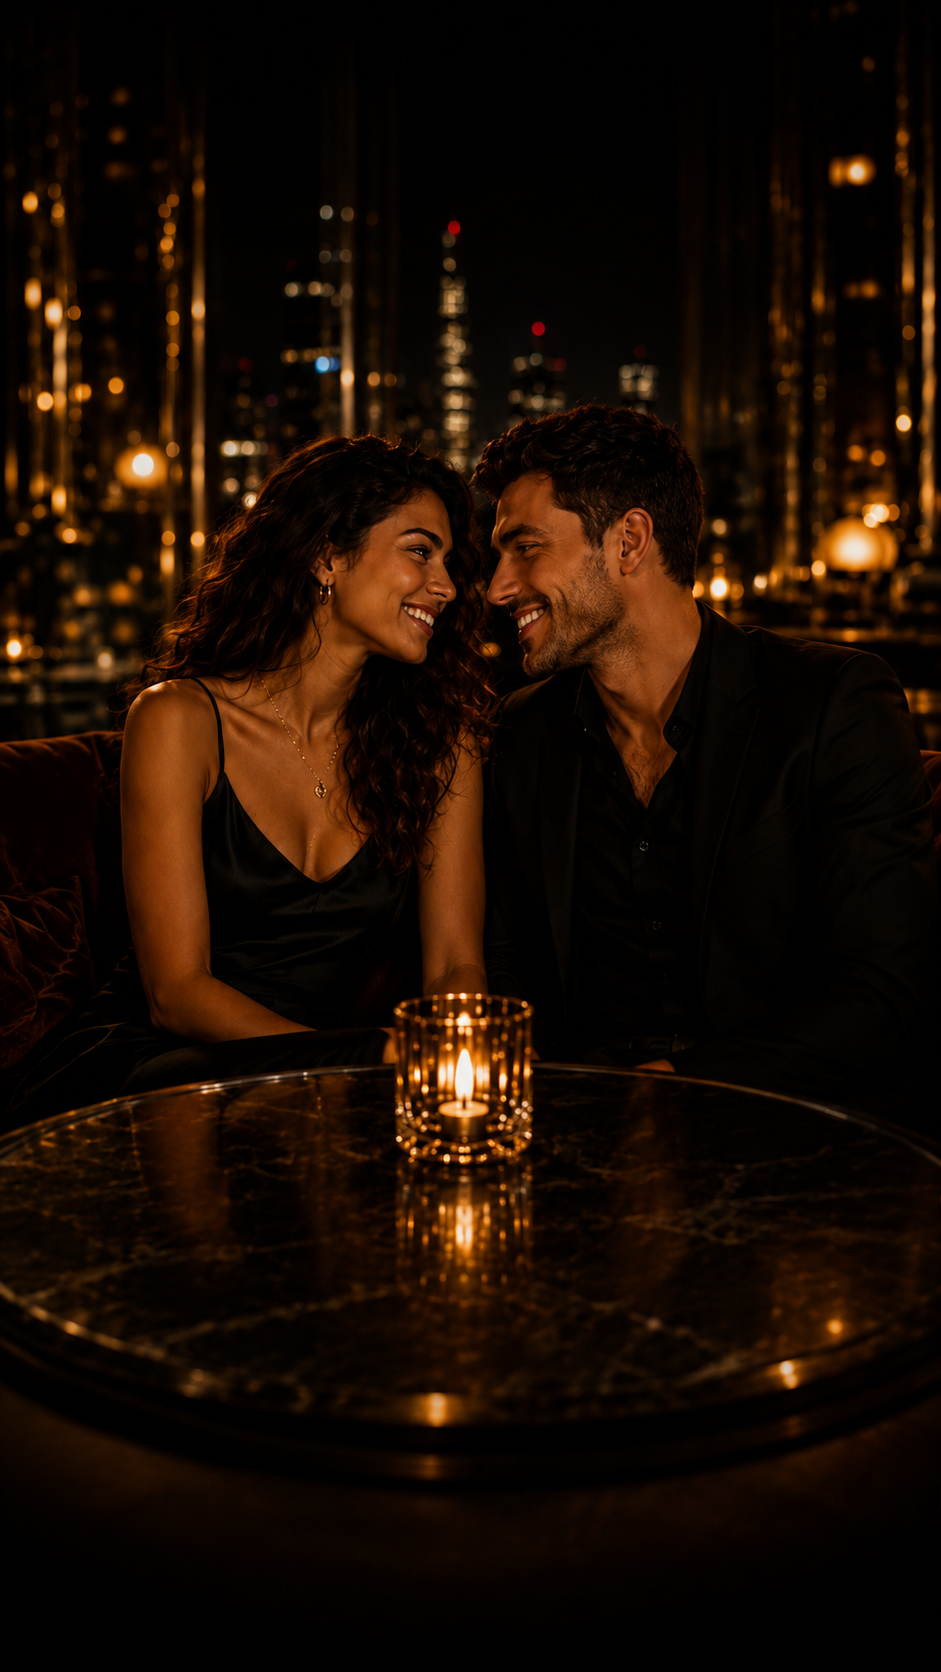
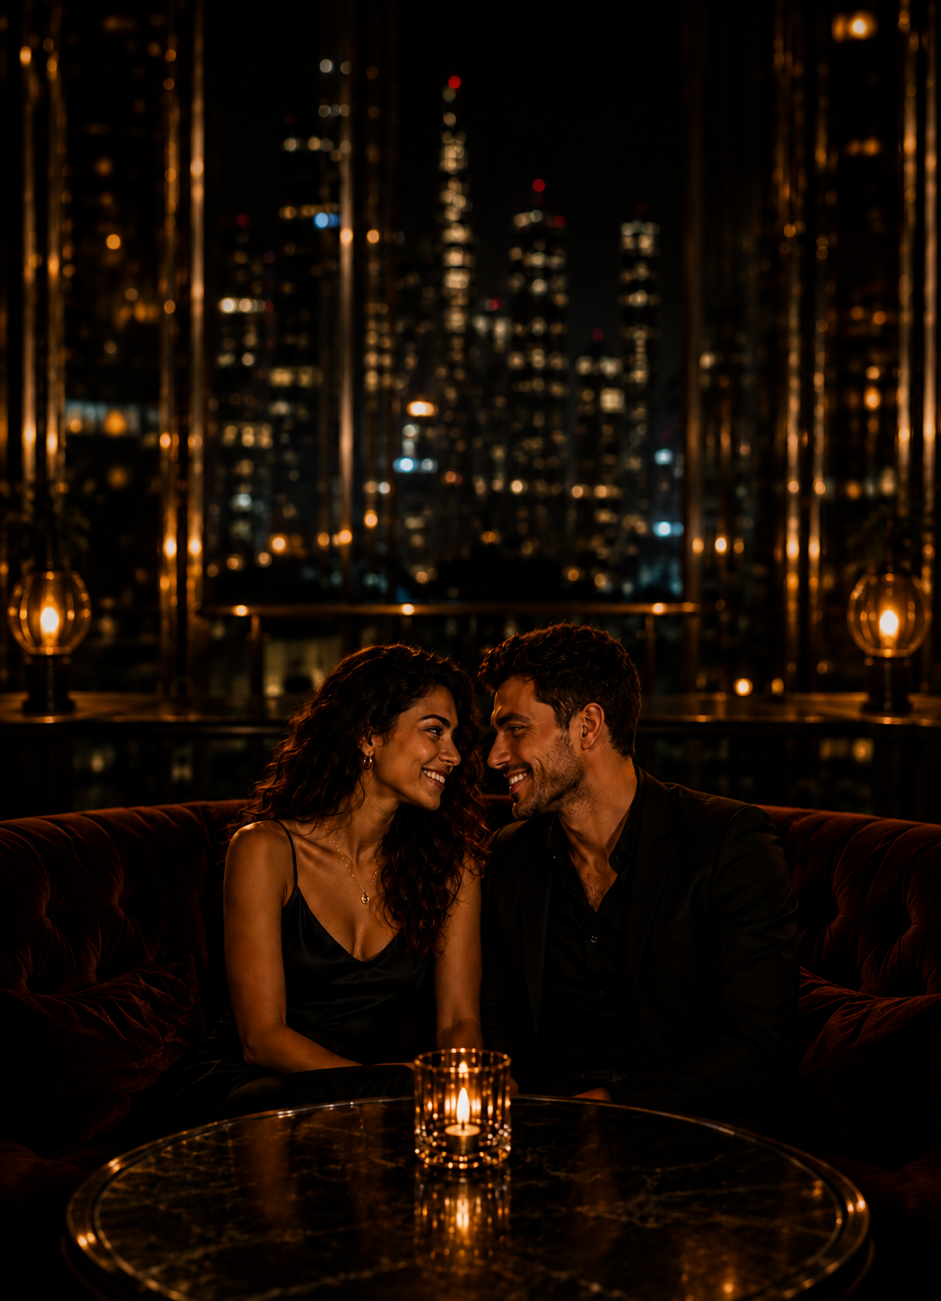
fix

diff --git a/test/auth_test_cases.dart b/test/auth_test_cases.dart
@@ -1,0 +1,3 @@
+class AuthTestCases extends Statef {
+
+}
